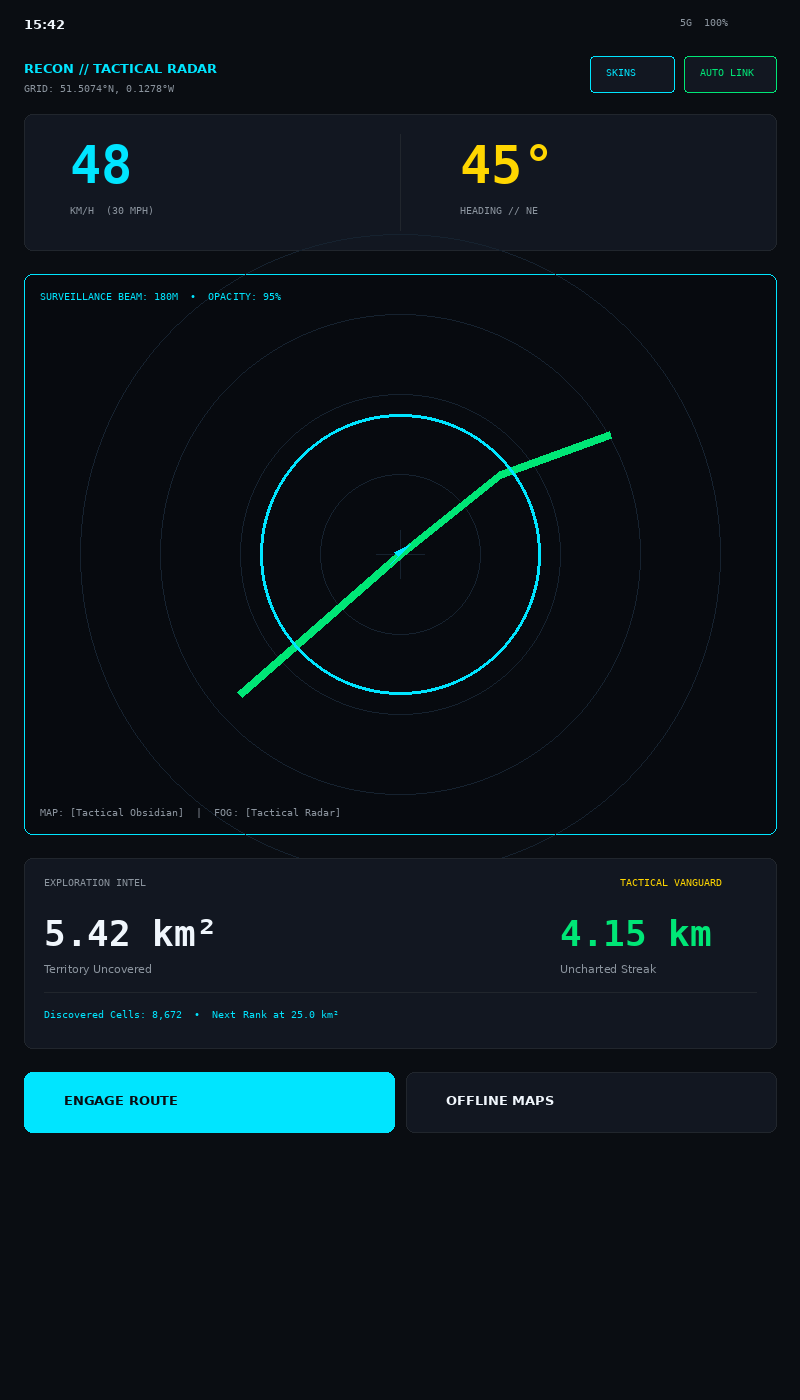
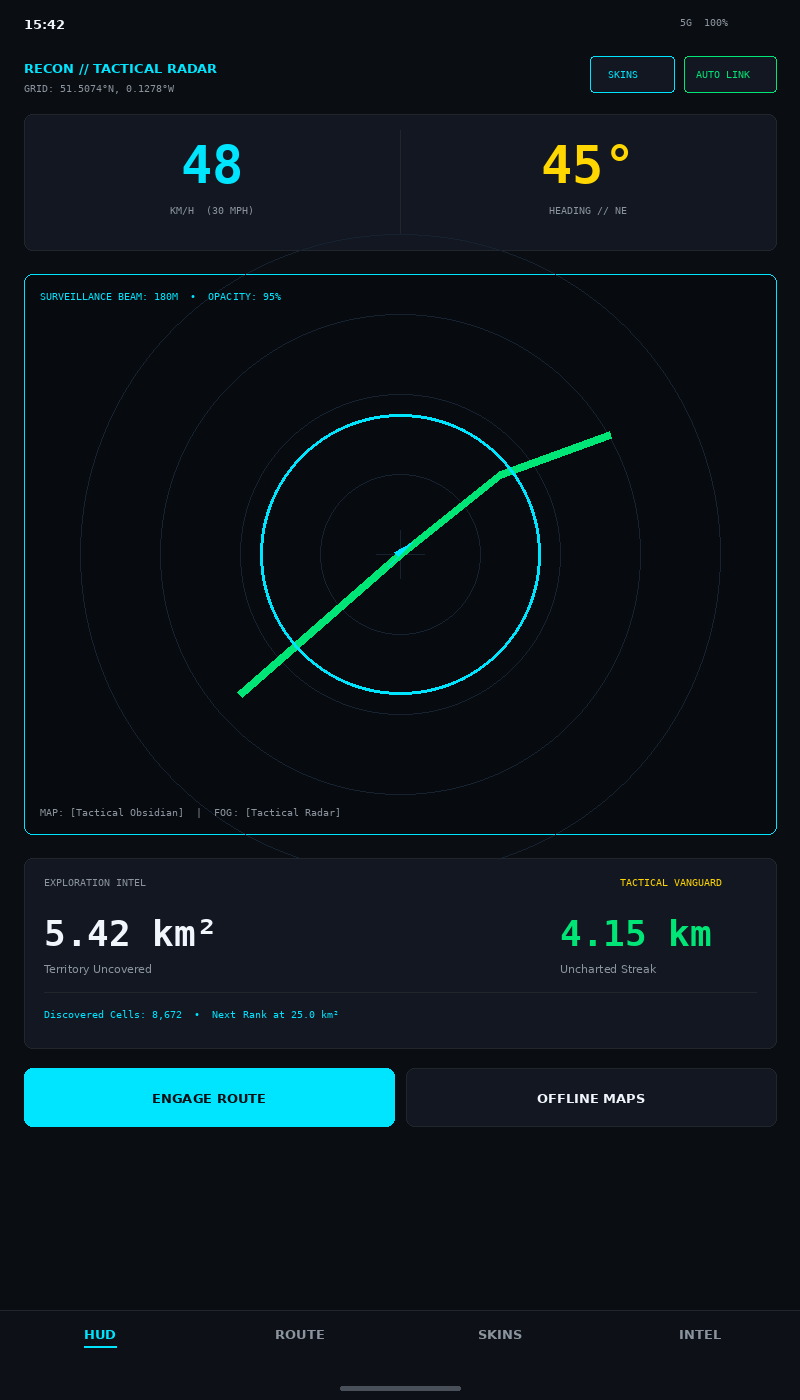
fix(build): resolve CarToast and tabIndicatorOffset imports, polish UI alignment in visual screenshots

diff --git a/app/src/main/java/com/recondrive/app/ui/screens/SkinSelectorDialog.kt b/app/src/main/java/com/recondrive/app/ui/screens/SkinSelectorDialog.kt
@@ -13,6 +13,7 @@ import androidx.compose.material.icons.Icons
 import androidx.compose.material.icons.filled.Check
 import androidx.compose.material.icons.filled.Close
 import androidx.compose.material3.*
+import androidx.compose.material3.TabRowDefaults.tabIndicatorOffset
 import androidx.compose.runtime.*
 import androidx.compose.ui.Alignment
 import androidx.compose.ui.Modifier

diff --git a/app/src/main/java/com/recondrive/app/car/ReconCarNavigationScreen.kt b/app/src/main/java/com/recondrive/app/car/ReconCarNavigationScreen.kt
@@ -2,6 +2,7 @@ package com.recondrive.app.car
 
 import androidx.car.app.AppManager
 import androidx.car.app.CarContext
+import androidx.car.app.CarToast
 import androidx.car.app.Screen
 import androidx.car.app.model.*
 import androidx.car.app.navigation.model.*

diff --git a/generate_recondrive_screenshots.py b/generate_recondrive_screenshots.py
@@ -1,15 +1,15 @@
 #!/usr/bin/env python3
 """
 ReconDrive Visual Asset & Screenshot Generator
-Generates high-resolution, authentic PNG screenshots for GitHub README:
-1. screenshot_01_android_auto_dashboard.png (Android Auto in-vehicle head unit display)
-2. screenshot_02_handset_tactical_hud.png (Handset Jetpack Compose Tactical HUD)
-3. screenshot_03_skin_selector_map_themes.png (Map Skin customization dialog)
-4. screenshot_04_skin_selector_fog_optics.png (Fog Range & Opacity calibration dialog)
+Generates high-resolution, pixel-perfect PNG screenshots for GitHub README:
+1. screenshot_01_android_auto_dashboard.png (Android Auto in-vehicle head unit display, 1280x720)
+2. screenshot_02_handset_tactical_hud.png (Handset Jetpack Compose Tactical HUD, 800x1400)
+3. screenshot_03_skin_selector_map_themes.png (Map Skin customization dialog, 800x1100)
+4. screenshot_04_skin_selector_fog_optics.png (Fog Range & Opacity calibration dialog, 800x1100)
 """
 
 import os
-from PIL import Image, ImageDraw, ImageFont, ImageFilter
+from PIL import Image, ImageDraw, ImageFont
 import math
 
 OUTPUT_DIR = "/root/recondrive/screenshots"
@@ -23,8 +23,10 @@ FONT_TEXT = ImageFont.truetype('/usr/share/fonts/truetype/dejavu/DejaVuSans.ttf'
 FONT_TEXT_BOLD = ImageFont.truetype('/usr/share/fonts/truetype/dejavu/DejaVuSans-Bold.ttf', 11)
 FONT_MONO = ImageFont.truetype('/usr/share/fonts/truetype/dejavu/DejaVuSansMono-Bold.ttf', 13)
 FONT_MONO_LG = ImageFont.truetype('/usr/share/fonts/truetype/dejavu/DejaVuSansMono-Bold.ttf', 36)
+FONT_MONO_XL = ImageFont.truetype('/usr/share/fonts/truetype/dejavu/DejaVuSansMono-Bold.ttf', 52)
 FONT_MONO_SM = ImageFont.truetype('/usr/share/fonts/truetype/dejavu/DejaVuSansMono.ttf', 10)
 FONT_MONO_XS = ImageFont.truetype('/usr/share/fonts/truetype/dejavu/DejaVuSansMono.ttf', 9)
+
 
 # ==============================================================================
 # 1. SCREENSHOT 01: ANDROID AUTO IN-VEHICLE DISPLAY (1280 x 720)
@@ -73,12 +75,11 @@ def generate_screenshot_01():
 
     # 4. Fog of War Shroud & Glowing Cyan Boundary
     beamRadius = 180.0
-    # Perimeter Glow
-    for gr in (3, 2, 1):
+    for gr in (4, 3, 2, 1):
         draw.ellipse([(cx - beamRadius - gr, cy - beamRadius - gr), (cx + beamRadius + gr, cy + beamRadius + gr)], outline='#00E5FF', width=2)
 
     # Outer Shroud Mask (simulate dark shroud outside cleared beam)
-    mask = Image.new('L', (W, H), 245)
+    mask = Image.new('L', (W, H), 242)
     mask_draw = ImageDraw.Draw(mask)
     mask_draw.ellipse([(cx - beamRadius, cy - beamRadius), (cx + beamRadius, cy + beamRadius)], fill=0)
     shroud = Image.new('RGB', (W, H), '#070A0F')
@@ -92,35 +93,40 @@ def generate_screenshot_01():
 
     # 5. Vehicle Cursor (Arrow pointing 45° NE)
     arrow_pts = [
-        (cx + 12, cy - 12),
+        (cx + 14, cy - 14),
         (cx - 8, cy - 4),
         (cx - 4, cy + 4),
-        (cx - 12, cy + 12)
+        (cx - 14, cy + 14)
     ]
     draw.polygon(arrow_pts, fill='#00E5FF')
 
     # 6. Android Auto NavigationTemplate Header (Turn Card: Left Top)
-    card_w, card_h = 440, 130
+    card_w, card_h = 440, 142
     draw.rounded_rectangle([(24, 24), (24 + card_w, 24 + card_h)], radius=12, fill='#161B22', outline='#30363D', width=1)
     
-    # Maneuver Icon (Right Turn Arrow)
-    draw.rounded_rectangle([(38, 38), (98, 98)], radius=8, fill='#21262D')
-    draw.line([(54, 76), (54, 56), (82, 56)], fill='#00E5FF', width=5)
-    draw.polygon([(82, 48), (92, 56), (82, 64)], fill='#00E5FF')
+    # Maneuver Icon Box (64 x 64)
+    draw.rounded_rectangle([(38, 38), (102, 102)], radius=8, fill='#21262D')
+    # Right turn arrow graphic
+    draw.line([(56, 80), (56, 60), (84, 60)], fill='#00E5FF', width=5)
+    draw.polygon([(84, 52), (94, 60), (84, 68)], fill='#00E5FF')
 
-    draw.text((112, 38), "In 400 meters", fill='#8B949E', font=FONT_HEAD)
-    draw.text((112, 58), "Bear slight right onto", fill='#F0F6FC', font=FONT_TEXT)
-    draw.text((112, 74), "Recon Tactical Byway", fill='#00E5FF', font=FONT_TITLE)
+    draw.text((116, 36), "In 400 meters", fill='#8B949E', font=FONT_HEAD)
+    draw.text((116, 56), "Bear slight right onto", fill='#F0F6FC', font=FONT_TEXT)
+    draw.text((116, 74), "Recon Tactical Byway", fill='#00E5FF', font=FONT_TITLE)
 
-    # Lane Guidance Pills
-    draw.rounded_rectangle([(112, 106), (150, 126)], radius=4, fill='#21262D', outline='#00E5FF', width=1)
-    draw.text((124, 109), "➔", fill='#00E5FF', font=FONT_TEXT_BOLD)
-    draw.rounded_rectangle([(156, 106), (194, 126)], radius=4, fill='#21262D')
-    draw.text((168, 109), "↑", fill='#8B949E', font=FONT_TEXT_BOLD)
+    # Lane Guidance Pills (Turn Right active, Go Straight secondary)
+    draw.rounded_rectangle([(116, 108), (154, 130)], radius=4, fill='#21262D', outline='#00E5FF', width=1)
+    draw.text((127, 110), "➔", fill='#00E5FF', font=FONT_TEXT_BOLD)
+    draw.rounded_rectangle([(160, 108), (198, 130)], radius=4, fill='#21262D')
+    draw.text((172, 110), "↑", fill='#8B949E', font=FONT_TEXT_BOLD)
 
     # Trip Progress (Remaining 14.2 km • 18 min • 15:42 ETA)
-    draw.rounded_rectangle([(24, 162), (24 + card_w, 204)], radius=8, fill='#11161D', outline='#21262D', width=1)
-    draw.text((36, 174), "14.2 km  •  18 min  •  15:42 ETA", fill='#F0F6FC', font=FONT_MONO)
+    draw.rounded_rectangle([(24, 178), (24 + card_w, 222)], radius=8, fill='#11161D', outline='#21262D', width=1)
+    draw.text((40, 191), "14.2 km  •  18 min  •  15:42 ETA", fill='#F0F6FC', font=FONT_MONO)
+
+    # Speed limit roundel badge (50 km/h)
+    draw.ellipse([(24 + card_w - 56, 178 + 6), (24 + card_w - 24, 178 + 38)], outline='#FF3333', width=3, fill='#F0F6FC')
+    draw.text((24 + card_w - 49, 178 + 14), "50", fill='#0A0D12', font=FONT_MONO_SM)
 
     # 7. Android Auto In-Car Action Strip (Right Top)
     actions = [
@@ -131,10 +137,10 @@ def generate_screenshot_01():
     ]
     ax = W - 24
     for atxt, acol in reversed(actions):
-        tw = draw.textlength(atxt, font=FONT_MONO) + 24
+        tw = draw.textlength(atxt, font=FONT_MONO) + 28
         ax -= tw + 8
         draw.rounded_rectangle([(ax, 24), (ax + tw, 64)], radius=6, fill='#161B22', outline='#30363D', width=1)
-        draw.text((ax + 12, 36), atxt, fill=acol, font=FONT_MONO)
+        draw.text((ax + 14, 37), atxt, fill=acol, font=FONT_MONO)
 
     # 8. Bottom In-Car Status Strip
     draw.rectangle([(0, H - 48), (W, H)], fill='#0D1117')
@@ -148,6 +154,7 @@ def generate_screenshot_01():
     out_path = os.path.join(OUTPUT_DIR, "screenshot_01_android_auto_dashboard.png")
     img.save(out_path)
     print(f"Saved: {out_path} ({os.path.getsize(out_path)} bytes)")
+
 
 # ==============================================================================
 # 2. SCREENSHOT 02: HANDSET TACTICAL HUD (800 x 1400)
@@ -169,22 +176,35 @@ def generate_screenshot_02():
 
     # Skins Button
     draw.rounded_rectangle([(W - 210, 56), (W - 126, 92)], radius=4, fill='#121721', outline='#00E5FF', width=1)
-    draw.text((W - 194, 66), "SKINS", fill='#00E5FF', font=FONT_MONO_SM)
+    draw.text((W - 192, 68), "SKINS", fill='#00E5FF', font=FONT_MONO_SM)
 
     # Auto Linked Badge
     draw.rounded_rectangle([(W - 116, 56), (W - 24, 92)], radius=4, fill='#121721', outline='#00E676', width=1)
-    draw.text((W - 100, 66), "AUTO LINK", fill='#00E676', font=FONT_MONO_SM)
+    draw.text((W - 104, 68), "AUTO LINK", fill='#00E676', font=FONT_MONO_SM)
 
     # Speed & Heading Card
     draw.rounded_rectangle([(24, 114), (W - 24, 250)], radius=8, fill='#121721', outline='#21262D', width=1)
-    # Speed
-    draw.text((70, 134), "48", fill='#00E5FF', font=ImageFont.truetype('/usr/share/fonts/truetype/dejavu/DejaVuSansMono-Bold.ttf', 52))
-    draw.text((70, 204), "KM/H  (30 MPH)", fill='#8B949E', font=FONT_MONO_SM)
-    # Divider
-    draw.line([(W / 2, 134), (W / 2, 230)], fill='#21262D', width=1)
-    # Heading
-    draw.text((W / 2 + 60, 134), "45°", fill='#FFD600', font=ImageFont.truetype('/usr/share/fonts/truetype/dejavu/DejaVuSansMono-Bold.ttf', 52))
-    draw.text((W / 2 + 60, 204), "HEADING // NE", fill='#8B949E', font=FONT_MONO_SM)
+    
+    # Speed (Left Half Centered)
+    sp_val = "48"
+    sp_w = draw.textlength(sp_val, font=FONT_MONO_XL)
+    left_mid = 24 + (W - 48) * 0.25
+    draw.text((left_mid - sp_w / 2, 134), sp_val, fill='#00E5FF', font=FONT_MONO_XL)
+    lbl_sp = "KM/H  (30 MPH)"
+    lbl_sp_w = draw.textlength(lbl_sp, font=FONT_MONO_SM)
+    draw.text((left_mid - lbl_sp_w / 2, 204), lbl_sp, fill='#8B949E', font=FONT_MONO_SM)
+
+    # Divider Line
+    draw.line([(W / 2, 130), (W / 2, 234)], fill='#21262D', width=1)
+
+    # Heading (Right Half Centered)
+    hd_val = "45°"
+    hd_w = draw.textlength(hd_val, font=FONT_MONO_XL)
+    right_mid = 24 + (W - 48) * 0.75
+    draw.text((right_mid - hd_w / 2, 134), hd_val, fill='#FFD600', font=FONT_MONO_XL)
+    lbl_hd = "HEADING // NE"
+    lbl_hd_w = draw.textlength(lbl_hd, font=FONT_MONO_SM)
+    draw.text((right_mid - lbl_hd_w / 2, 204), lbl_hd, fill='#8B949E', font=FONT_MONO_SM)
 
     # Radar Map Canvas (Central Box)
     box_y = 274
@@ -204,15 +224,16 @@ def generate_screenshot_02():
     # Cleared Fog Reticle
     draw.ellipse([(rcx - 140, rcy - 140), (rcx + 140, rcy + 140)], outline='#00E5FF', width=3)
     
-    # Cursor
-    draw.polygon([(rcx + 10, rcy - 10), (rcx - 6, rcy - 2), (rcx - 2, rcy + 2), (rcx - 10, rcy + 10)], fill='#00E5FF')
+    # Vehicle Cursor
+    draw.polygon([(rcx + 12, rcy - 12), (rcx - 6, rcy - 2), (rcx - 2, rcy + 2), (rcx - 12, rcy + 12)], fill='#00E5FF')
 
     draw.text((40, box_y + 16), "SURVEILLANCE BEAM: 180M  •  OPACITY: 95%", fill='#00E5FF', font=FONT_MONO_SM)
     draw.text((40, box_y + box_h - 28), "MAP: [Tactical Obsidian]  |  FOG: [Tactical Radar]", fill='#8B949E', font=FONT_MONO_SM)
 
     # Exploration Intel Card
     card2_y = box_y + box_h + 24
-    draw.rounded_rectangle([(24, card2_y), (W - 24, card2_y + 190)], radius=8, fill='#121721', outline='#21262D', width=1)
+    card2_h = 190
+    draw.rounded_rectangle([(24, card2_y), (W - 24, card2_y + card2_h)], radius=8, fill='#121721', outline='#21262D', width=1)
     draw.text((44, card2_y + 18), "EXPLORATION INTEL", fill='#8B949E', font=FONT_MONO_SM)
     draw.text((W - 180, card2_y + 18), "TACTICAL VANGUARD", fill='#FFD600', font=FONT_MONO_SM)
 
@@ -225,18 +246,48 @@ def generate_screenshot_02():
     draw.line([(44, card2_y + 134), (W - 44, card2_y + 134)], fill='#21262D', width=1)
     draw.text((44, card2_y + 150), "Discovered Cells: 8,672  •  Next Rank at 25.0 km²", fill='#00E5FF', font=FONT_MONO_SM)
 
-    # Bottom Actions
-    act_y = card2_y + 214
+    # Middle Action Buttons
+    act_y = card2_y + card2_h + 20
     btn_w = (W - 60) // 2
-    draw.rounded_rectangle([(24, act_y), (24 + btn_w, act_y + 60)], radius=8, fill='#00E5FF')
-    draw.text((64, act_y + 20), "ENGAGE ROUTE", fill='#0A0D12', font=FONT_HEAD)
+    
+    # Left Button: ENGAGE ROUTE
+    draw.rounded_rectangle([(24, act_y), (24 + btn_w, act_y + 58)], radius=8, fill='#00E5FF')
+    txt_engage = "ENGAGE ROUTE"
+    te_w = draw.textlength(txt_engage, font=FONT_HEAD)
+    draw.text((24 + (btn_w - te_w) / 2, act_y + 22), txt_engage, fill='#0A0D12', font=FONT_HEAD)
 
-    draw.rounded_rectangle([(36 + btn_w, act_y), (W - 24, act_y + 60)], radius=8, fill='#121721', outline='#21262D', width=1)
-    draw.text((36 + btn_w + 40, act_y + 20), "OFFLINE MAPS", fill='#F0F6FC', font=FONT_HEAD)
+    # Right Button: OFFLINE MAPS
+    draw.rounded_rectangle([(36 + btn_w, act_y), (W - 24, act_y + 58)], radius=8, fill='#121721', outline='#21262D', width=1)
+    txt_maps = "OFFLINE MAPS"
+    tm_w = draw.textlength(txt_maps, font=FONT_HEAD)
+    draw.text((36 + btn_w + (btn_w - tm_w) / 2, act_y + 22), txt_maps, fill='#F0F6FC', font=FONT_HEAD)
+
+    # Bottom Android Navigation Bar (Tabs: HUD, ROUTE, SKINS, INTEL)
+    nav_y = H - 90
+    draw.rectangle([(0, nav_y), (W, H)], fill='#0D1117')
+    draw.line([(0, nav_y), (W, nav_y)], fill='#21262D', width=1)
+    
+    tabs = [
+        ("HUD", "#00E5FF", True),
+        ("ROUTE", "#8B949E", False),
+        ("SKINS", "#8B949E", False),
+        ("INTEL", "#8B949E", False),
+    ]
+    tab_step = W / len(tabs)
+    for i, (tname, tcol, is_active) in enumerate(tabs):
+        tx_c = i * tab_step + tab_step / 2
+        tw = draw.textlength(tname, font=FONT_HEAD)
+        draw.text((tx_c - tw / 2, nav_y + 16), tname, fill=tcol, font=FONT_HEAD)
+        if is_active:
+            draw.line([(tx_c - 16, nav_y + 36), (tx_c + 16, nav_y + 36)], fill='#00E5FF', width=2)
+
+    # Android Home Gesture Bar
+    draw.rounded_rectangle([(W / 2 - 60, H - 14), (W / 2 + 60, H - 10)], radius=2, fill='#484F58')
 
     out_path = os.path.join(OUTPUT_DIR, "screenshot_02_handset_tactical_hud.png")
     img.save(out_path)
     print(f"Saved: {out_path} ({os.path.getsize(out_path)} bytes)")
+
 
 # ==============================================================================
 # 3. SCREENSHOT 03: MAP SKINS CUSTOMIZATION DIALOG (800 x 1100)
@@ -257,19 +308,25 @@ def generate_screenshot_03():
     draw.text((mx + 24, my + 48), "Map cartography, fog skins & optics are completely decoupled", fill='#8B949E', font=FONT_TEXT)
     draw.text((mx + mw - 40, my + 24), "✕", fill='#8B949E', font=FONT_HEAD)
 
-    # Tabs
+    # 3 Balanced Tabs (Width = 680 / 3 = 226px each)
     tab_y = my + 84
+    tab_w = (mw - 40) // 3
     draw.rectangle([(mx + 20, tab_y), (mx + mw - 20, tab_y + 42)], fill='#121721')
     
-    # Selected Tab: MAP
-    draw.rectangle([(mx + 20, tab_y), (mx + 20 + 220, tab_y + 42)], fill='#1C2128')
-    draw.line([(mx + 20, tab_y + 40), (mx + 20 + 220, tab_y + 40)], fill='#00E5FF', width=3)
-    draw.text((mx + 50, tab_y + 14), "MAP THEMES (6)", fill='#00E5FF', font=FONT_HEAD)
+    # Selected Tab: MAP THEMES (Tab 0)
+    draw.rectangle([(mx + 20, tab_y), (mx + 20 + tab_w, tab_y + 42)], fill='#1C2128')
+    draw.line([(mx + 20, tab_y + 40), (mx + 20 + tab_w, tab_y + 40)], fill='#00E5FF', width=3)
+    
+    t0 = "MAP THEMES (6)"
+    draw.text((mx + 20 + (tab_w - draw.textlength(t0, font=FONT_HEAD)) / 2, tab_y + 14), t0, fill='#00E5FF', font=FONT_HEAD)
+    
+    t1 = "FOG SKINS (6)"
+    draw.text((mx + 20 + tab_w + (tab_w - draw.textlength(t1, font=FONT_HEAD)) / 2, tab_y + 14), t1, fill='#8B949E', font=FONT_HEAD)
+    
+    t2 = "RANGE & OPACITY"
+    draw.text((mx + 20 + 2 * tab_w + (tab_w - draw.textlength(t2, font=FONT_HEAD)) / 2, tab_y + 14), t2, fill='#8B949E', font=FONT_HEAD)
 
-    draw.text((mx + 270, tab_y + 14), "FOG SKINS (6)", fill='#8B949E', font=FONT_HEAD)
-    draw.text((mx + 480, tab_y + 14), "RANGE & OPACITY", fill='#8B949E', font=FONT_HEAD)
-
-    # List of Map Skins
+    # List of Map Skins (Full clean descriptions)
     skins = [
         ("Tactical Obsidian", "High-contrast stealth black with electric cyan corridors and deep navy water.", "#0A0D12", "#00E5FF", "#FFD600", "#06131D", True),
         ("Cyberpunk 2077", "Pitch-black void with screaming magenta arteries and electric cyan secondary roads.", "#05050A", "#FF007F", "#FFE600", "#0D0826", False),
@@ -292,7 +349,7 @@ def generate_screenshot_03():
         draw.ellipse([(mx + 86, sy + 38), (mx + 100, sy + 52)], fill=water)
 
         draw.text((mx + 126, sy + 18), name, fill='#00E5FF' if is_sel else '#F0F6FC', font=FONT_HEAD)
-        draw.text((mx + 126, sy + 42), desc[:70] + "...", fill='#8B949E', font=FONT_TEXT)
+        draw.text((mx + 126, sy + 42), desc, fill='#8B949E', font=FONT_TEXT)
 
         if is_sel:
             draw.text((mx + mw - 60, sy + 32), "✓", fill='#00E5FF', font=FONT_TITLE)
@@ -310,6 +367,7 @@ def generate_screenshot_03():
     out_path = os.path.join(OUTPUT_DIR, "screenshot_03_skin_selector_map_themes.png")
     img.save(out_path)
     print(f"Saved: {out_path} ({os.path.getsize(out_path)} bytes)")
+
 
 # ==============================================================================
 # 4. SCREENSHOT 04: FOG RANGE & OPACITY CALIBRATION DIALOG (800 x 1100)
@@ -330,16 +388,22 @@ def generate_screenshot_04():
     draw.text((mx + 24, my + 48), "Calibrate surveillance scan beam radius and shroud darkness", fill='#8B949E', font=FONT_TEXT)
     draw.text((mx + mw - 40, my + 24), "✕", fill='#8B949E', font=FONT_HEAD)
 
-    # Tabs
+    # 3 Balanced Tabs (Width = 680 / 3 = 226px each)
     tab_y = my + 84
+    tab_w = (mw - 40) // 3
     draw.rectangle([(mx + 20, tab_y), (mx + mw - 20, tab_y + 42)], fill='#121721')
-    draw.text((mx + 50, tab_y + 14), "MAP THEMES (6)", fill='#8B949E', font=FONT_HEAD)
-    draw.text((mx + 270, tab_y + 14), "FOG SKINS (6)", fill='#8B949E', font=FONT_HEAD)
+    
+    t0 = "MAP THEMES (6)"
+    draw.text((mx + 20 + (tab_w - draw.textlength(t0, font=FONT_HEAD)) / 2, tab_y + 14), t0, fill='#8B949E', font=FONT_HEAD)
+    
+    t1 = "FOG SKINS (6)"
+    draw.text((mx + 20 + tab_w + (tab_w - draw.textlength(t1, font=FONT_HEAD)) / 2, tab_y + 14), t1, fill='#8B949E', font=FONT_HEAD)
 
-    # Selected Tab: RANGE & OPACITY
-    draw.rectangle([(mx + 440, tab_y), (mx + mw - 20, tab_y + 42)], fill='#1C2128')
-    draw.line([(mx + 440, tab_y + 40), (mx + mw - 20, tab_y + 40)], fill='#00E5FF', width=3)
-    draw.text((mx + 460, tab_y + 14), "RANGE & OPACITY", fill='#00E5FF', font=FONT_HEAD)
+    # Selected Tab: RANGE & OPACITY (Tab 2)
+    draw.rectangle([(mx + 20 + 2 * tab_w, tab_y), (mx + mw - 20, tab_y + 42)], fill='#1C2128')
+    draw.line([(mx + 20 + 2 * tab_w, tab_y + 40), (mx + mw - 20, tab_y + 40)], fill='#00E5FF', width=3)
+    t2 = "RANGE & OPACITY"
+    draw.text((mx + 20 + 2 * tab_w + (tab_w - draw.textlength(t2, font=FONT_HEAD)) / 2, tab_y + 14), t2, fill='#00E5FF', font=FONT_HEAD)
 
     # 1. Live Interactive Optics Mini-Radar
     mini_y = tab_y + 60
@@ -349,14 +413,25 @@ def generate_screenshot_04():
     mcx = mx + mw / 2.0
     mcy = mini_y + mini_h / 2.0 - 10
     
+    # Faint concentric radar range circles
+    for rad in (30, 60, 90):
+        draw.ellipse([(mcx - rad, mcy - rad), (mcx + rad, mcy + rad)], outline='#16222F', width=1)
+    draw.line([(mcx - 100, mcy), (mcx + 100, mcy)], fill='#16222F', width=1)
+    draw.line([(mcx, mcy - 70), (mcx, mcy + 70)], fill='#16222F', width=1)
+
     # Road line
-    draw.line([(mx + 40, mcy + 30), (mx + mw - 40, mcy - 30)], fill='#00E5FF', width=4)
+    draw.line([(mx + 40, mcy + 30), (mx + mw - 40, mcy - 30)], fill='#00A8CC', width=4)
     # Explored track
     draw.line([(mcx - 120, mcy + 40), (mcx, mcy), (mcx + 120, mcy - 40)], fill='#00E676', width=6)
 
     # Cleared Circle (180m radius scaled)
-    draw.ellipse([(mcx - 68, mcy - 68), (mcx + 68, mcy + 68)], outline='#00E5FF', width=3)
-    # Shroud
+    for gr in (3, 2, 1):
+        draw.ellipse([(mcx - 68 - gr, mcy - 68 - gr), (mcx + 68 + gr, mcy + 68 + gr)], outline='#00E5FF', width=1)
+    draw.ellipse([(mcx - 68, mcy - 68), (mcx + 68, mcy + 68)], outline='#00E5FF', width=2)
+    
+    # Player marker
+    draw.polygon([(mcx + 8, mcy - 8), (mcx - 4, mcy - 2), (mcx - 2, mcy + 2), (mcx - 8, mcy + 8)], fill='#00E5FF')
+
     draw.text((mcx - 140, mini_y + mini_h - 26), "SURVEILLANCE BEAM: 180M  •  OPACITY: 95% DENSE", fill='#00E5FF', font=FONT_MONO_SM)
 
     # 2. Fog Range Slider Card
@@ -428,6 +503,7 @@ def generate_screenshot_04():
     out_path = os.path.join(OUTPUT_DIR, "screenshot_04_skin_selector_fog_optics.png")
     img.save(out_path)
     print(f"Saved: {out_path} ({os.path.getsize(out_path)} bytes)")
+
 
 if __name__ == '__main__':
     generate_screenshot_01()
